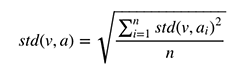
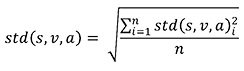
final clean-up on the math equations in README.md

Changed region(s): [[0.0, 0.0845, 0.9754, 0.8732], [0.6598, 0.6479, 0.7746, 0.8169], [0.2869, 0.4225, 0.3156, 0.4507]]

diff --git a/README.md b/README.md
@@ -142,17 +142,17 @@ The raw data set contains approximately 50 observations/experiments for each com
 Theoretically, the same volunteer from a single study engaging in the same activity should not produce appreciable different results barring extenuating circumstances. Since the data set does not provide any information on extenuating circumstances to facilitate such an analysis, averaging the means and standard deviations by study, volunteer and activity seems useful and practical.
 
 The average of the means is a simple average calculation. But averaging the standard deviations requires a more extensive calculation. First, you must square all of the standard deviations in order to convert them back to variances. Second, calculate a simple average of the variances. Third and finally, take the square root of the average variance.
-
-\begin{equation}std(s,v,a) = \sqrt{\frac{\sum_{i=1}^{n} {std(s,v,a)}_i^2}{n}} \end{equation}
 <!--
-# sadly the above equation needs to be inserted as a graphic because GitHub won't process the formula
+\begin{equation}std(s,v,a) = \sqrt{\frac{\sum_{i=1}^{n} {std(s,v,a)}_i^2}{n}} \end{equation}
 
+# sadly the above equation needs to be inserted as a graphic because GitHub won't process the formula
+-->
 <div align="center">
   <img  src="./images/avg_std_eq.png"></img>
 </div>
--->
 
-... where $std(s,v,a)$ is the set of all standard deviations $std(s,v,a)_i$ from observations of a particular measure for an identifying combination of a study, volunteer, and activity.
+
+... where <span style="font-family: serif; font-style: italic; font-size: larger">std(s,v,a)</span> is the set of all standard deviations <span style="font-family: serif; font-style: italic; font-size: larger">std(s,v,a)<sub>i</sub></span> from observations of a particular measure for an identifying combination of a study, volunteer, and activity.
 
 In the R code, this is implemented in a funtion titled `averageOfStd()` which is defined in the `misc_functions.R` script file.
 
